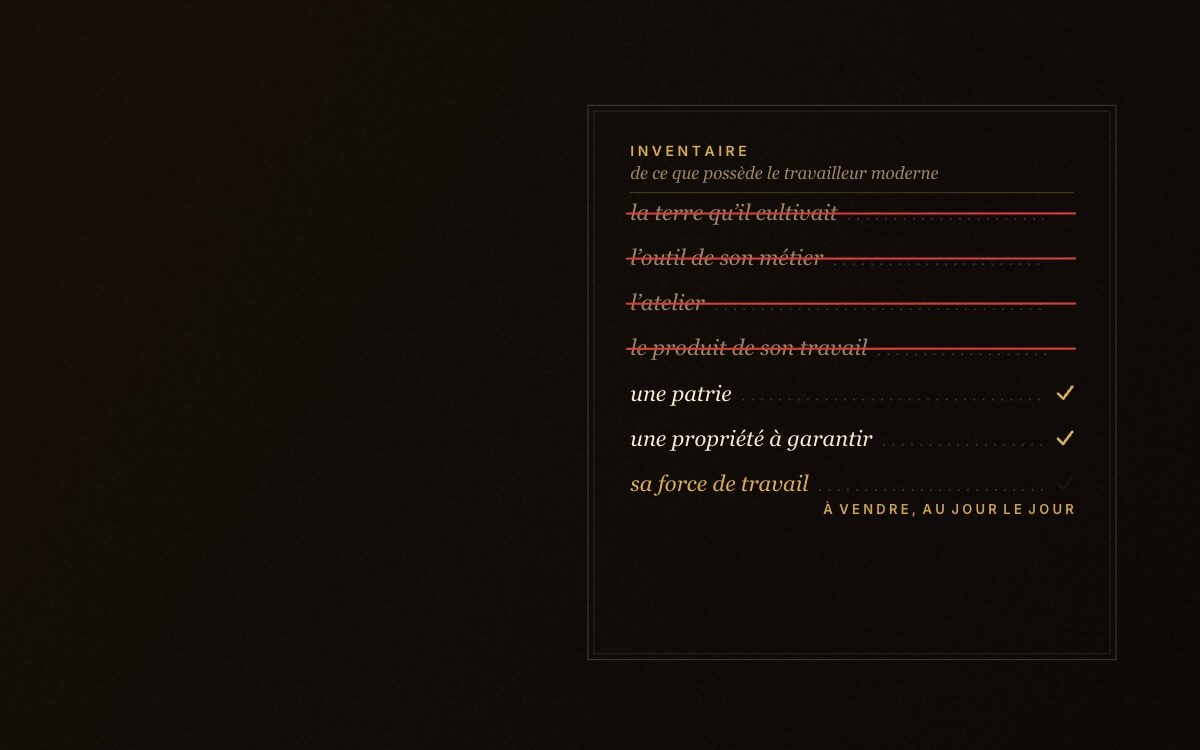
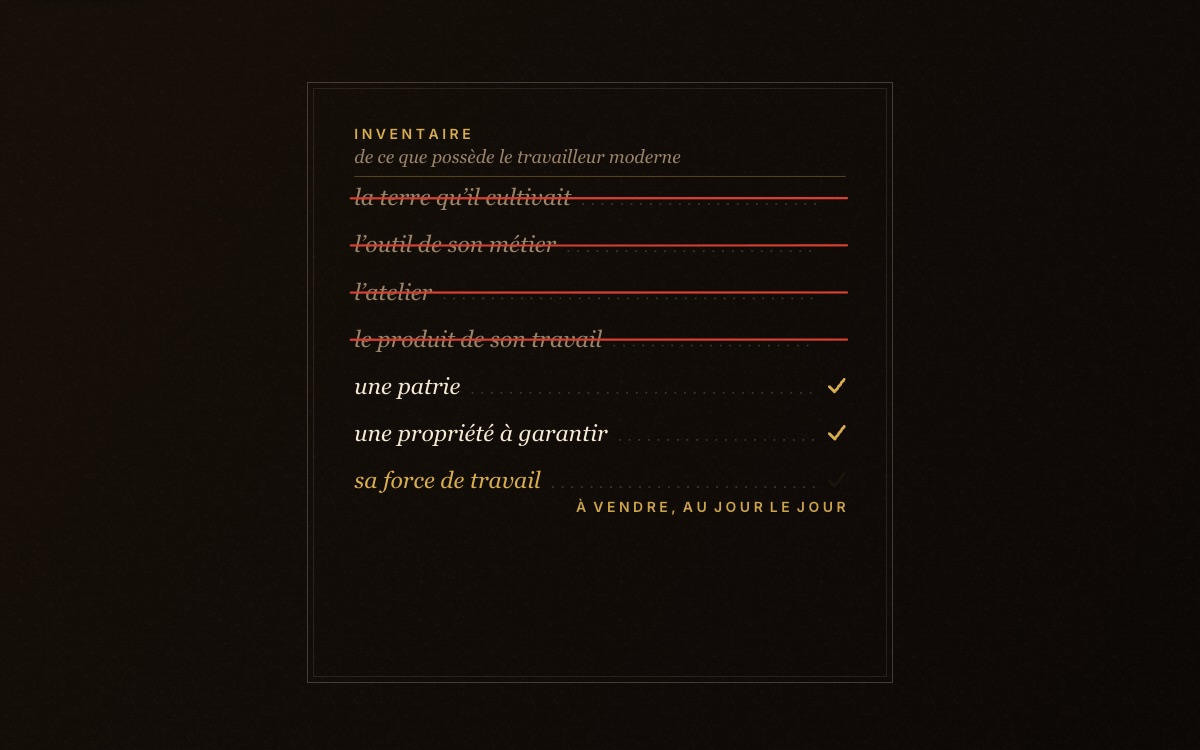
Glossaire : proletariat réécrite selon la charte, direction artistique « la grève et l'inventaire »

diff --git a/glossaire/mondes/proletariat/essai.html b/glossaire/mondes/proletariat/essai.html
@@ -1,48 +1,77 @@
-<!-- L'ESSAI — le corps de /glossaire/proletariat. data-s="1" partout. Toutes
-     les citations sont relevées dans le texte de Laura Lafargue que la
-     liseuse sert ; aucune ne reprend une phrase citée par les pages lutte des
-     classes et bourgeoisie. L'étymologie latine et la note d'Engels de 1888
-     ne sont pas dans le texte servi : paraphrasées et situées. -->
+<!-- L'ESSAI : le corps de /glossaire/proletariat.
+     Réécrit en octobre 2026 selon glossaire/mondes/CHARTE.md.
+     data-s="1" partout : le Manifeste tient en une seule page Wikisource.
+     Toutes les citations sont relevées dans le texte de Laura Lafargue que
+     la liseuse sert ; aucune ne reprend une phrase citée par les pages lutte
+     des classes et bourgeoisie (la voyoucratie et l'organisation « sans cesse
+     détruite » y sont citées : ici on les paraphrase). L'étymologie latine
+     et la note d'Engels de 1888 ne sont pas dans le texte servi :
+     paraphrasées et situées. -->
 
 <section class="nt-sec" data-etape="misere" id="difficulte">
-<h2>Ni les pauvres, ni les ouvriers en bleu</h2>
-<p>Le mot a une histoire plus ancienne que la classe qu'il désigne, et c'est elle qui rend la notion difficile. Dans la Rome antique, les <i>proletarii</i> étaient les citoyens de la dernière classe du cens, ceux qui ne possédaient rien d'autre que leur descendance&nbsp;; le mot a gardé de cette origine une connotation de misère, et l'on entend encore spontanément par prolétaire un homme pauvre. Or le <i>Manifeste</i> ne définit pas le prolétariat par le revenu, et tout le sens de la notion se perd si on l'y ramène. La définition qu'on cite vient d'une note d'Engels à l'édition anglaise de 1888&nbsp;: le prolétariat est la classe des ouvriers salariés modernes qui, ne possédant pas de moyens de production, sont réduits à vendre leur force de travail pour vivre.</p>
-<p>Toute la difficulté est dans cette négation. Un prolétaire bien payé reste un prolétaire, puisqu'il ne possède toujours que sa capacité de travailler&nbsp;; un mendiant n'en est pas un, puisqu'il ne la vend pas. Le texte de 1848 le dit à sa manière, par un inventaire de ce qui manque plutôt que par un tableau de ce qui est. Il énumère en une ligne&nbsp;: <q data-s="1" data-q="Le prolétaire est sans propriété">le prolétaire est sans propriété</q>, et il en tire aussitôt que <q data-s="1" data-q="ses relations de famille n’ont rien de commun avec celles de la famille bourgeoise">ses relations de famille n'ont rien de commun avec celles de la famille bourgeoise</q>. C'est de ce manque qu'il faut partir, parce que c'est lui, et non la souffrance, qui fonde la thèse politique du texte.</p>
-<p>La restriction vaut aussi dans l'autre sens, et elle est moins remarquée. Le prolétariat n'est pas davantage la classe ouvrière au sens étroit, celle des usines et des mines. La bourgeoisie, dit le texte, a dépouillé de leur auréole les professions réputées vénérables&nbsp;: <q data-s="1" data-q="Du médecin, du juriste, du prêtre, du poète, du savant, elle a fait des travailleurs salariés">du médecin, du juriste, du prêtre, du poète, du savant, elle a fait des travailleurs salariés</q>. La frontière ne passe pas entre le travail manuel et le travail intellectuel, mais entre ceux qui possèdent les moyens de produire et ceux qui doivent se louer à eux.</p>
+<h2>Le prolétaire est-il simplement un pauvre&nbsp;?</h2>
+<p class="nt-lead">Non. Le <i>Manifeste</i> le définit par ce qu'il ne possède pas, les moyens de produire. Le revenu n'entre pas dans la définition&nbsp;: un prolétaire bien payé reste un prolétaire.</p>
+<p>Le mot est plus ancien que la classe qu'il désigne, et cette ancienneté gêne la lecture. Dans la Rome antique, les <i>proletarii</i> formaient la dernière classe du cens&nbsp;: des citoyens qui ne possédaient guère que leur descendance. Le mot en a gardé une couleur de misère, et l'on entend encore spontanément par «&nbsp;prolétaire&nbsp;» un homme pauvre. Si l'on lit le <i>Manifeste</i> avec ce sens-là, on passe à côté de ce qu'il dit.</p>
+<p>La définition qu'on cite le plus souvent ne vient d'ailleurs pas du texte de 1848. Elle se trouve dans une note qu'Engels ajoute à l'édition anglaise de 1888&nbsp;: le prolétariat est la classe des ouvriers salariés modernes qui, ne possédant pas de moyens de production, sont réduits à vendre leur force de travail pour vivre. Les moyens de production, ce sont la terre, les outils, les machines, les locaux, les matières premières, bref tout ce qu'il faut avoir pour produire quelque chose. Le texte de 1848 dit la même chose en une ligne, plus sèche&nbsp;: <q data-s="1" data-q="Le prolétaire est sans propriété">le prolétaire est sans propriété</q>, et il en tire aussitôt que <q data-s="1" data-q="ses relations de famille n’ont rien de commun avec celles de la famille bourgeoise">ses relations de famille n’ont rien de commun avec celles de la famille bourgeoise</q>.</p>
+<div class="nt-ex">
+<p class="nt-ex-t">Un exemple</p>
+<p>Prenons deux hommes dans une ville de 1850. Le premier est contremaître dans une filature&nbsp;; il gagne trois fois le salaire d'un fileur, il est bien logé, il épargne un peu. Le second tient une petite échoppe de cordonnier, avec ses formes et son cuir&nbsp;; il gagne moins que le contremaître et vit mal.</p>
+<p>Au sens du <i>Manifeste</i>, c'est le contremaître qui est un prolétaire&nbsp;: rien de ce qui sert à produire ne lui appartient, et s'il perd sa place il n'a plus que ses bras à proposer. Le cordonnier est pauvre, mais il possède encore ses moyens de travail, et c'est sa propre marchandise qu'il vend. Le jour où la manufacture de chaussures le ruine et où il doit se louer à elle, il change de classe sans que son revenu ait forcément changé. Les chiffres sont des exemples&nbsp;; la distinction est celle du texte.</p>
+</div>
+<p>La définition vaut aussi dans l'autre sens, et l'on y pense moins. Le prolétariat ne se limite pas aux usines et aux mines. Le <i>Manifeste</i> remarque que la bourgeoisie a dépouillé de leur auréole les professions réputées vénérables&nbsp;: <q data-s="1" data-q="Du médecin, du juriste, du prêtre, du poète, du savant, elle a fait des travailleurs salariés">du médecin, du juriste, du prêtre, du poète, du savant, elle a fait des travailleurs salariés</q>. La ligne de partage passe entre ceux qui possèdent de quoi produire et ceux qui doivent se louer à eux, quel que soit le travail qu'ils font.</p>
 </section>
 
 <section class="nt-sec" data-etape="naissance" id="ou">
-<h2>Où le texte le pose&nbsp;: une classe produite</h2>
-<p>Le prolétariat n'entre pas dans le <i>Manifeste</i> comme un sujet déjà constitué, mais comme un produit, et l'ordre de l'exposé le montre. Il n'apparaît qu'après l'histoire de la bourgeoisie, parce qu'il en est la conséquence&nbsp;: la bourgeoisie, écrit le texte, n'a pas seulement forgé les armes qui la tueront, <q data-s="1" data-q="elle a produit aussi les hommes qui manieront ces armes">elle a produit aussi les hommes qui manieront ces armes</q>. Il se développe à la mesure du capital, et c'est pourquoi on ne peut le penser sans elle, comme on ne peut penser la <a href="/glossaire/bourgeoisie">bourgeoisie</a> sans lui.</p>
-<p>D'où viennent ces hommes&nbsp;? Non d'une naissance, mais d'une chute. Les petits industriels, les marchands, les petits rentiers, les artisans et les paysans propriétaires <q data-s="1" data-q="tombent dans le Prolétariat">tombent dans le Prolétariat</q>, parce que leurs petits capitaux ne suffisent pas à employer les procédés de la grande industrie et que leur habileté est dépréciée par les nouveaux modes de production. Le prolétariat est fait de ceux qui ont perdu ce qu'ils avaient, et c'est ce que <i>Le Capital</i> reprendra, sur le terrain de l'histoire, sous le nom d'<a href="/glossaire/accumulation-primitive">accumulation primitive</a>&nbsp;: une séparation du producteur d'avec ses moyens de production.</p>
+<h2>D'où viennent les prolétaires&nbsp;?</h2>
+<p class="nt-lead">D'une chute. Ils viennent des classes qui possédaient un peu, et que la grande industrie a ruinées. Le prolétariat est un produit du capital, et le <i>Manifeste</i> le présente comme tel.</p>
+<p>L'ordre de l'exposé le montre. Le prolétariat n'entre dans la première partie du texte qu'après l'histoire de la bourgeoisie, parce qu'il en est la conséquence. La bourgeoisie, écrit le texte, n'a pas seulement forgé les armes qui la tueront&nbsp;: <q data-s="1" data-q="elle a produit aussi les hommes qui manieront ces armes">elle a produit aussi les hommes qui manieront ces armes</q>. Le prolétariat grandit à mesure que grandit le capital. On ne peut pas le penser sans la <a href="/glossaire/bourgeoisie">bourgeoisie</a>, et la bourgeoisie ne se pense pas sans lui.</p>
+<p>Le texte nomme ceux qui tombent. Les petits industriels, les marchands, les petits rentiers, les artisans et les paysans propriétaires <q data-s="1" data-q="tombent dans le Prolétariat">tombent dans le Prolétariat</q>, pour deux raisons. Leurs petits capitaux ne suffisent pas à employer les procédés de la grande industrie, et ils perdent la concurrence contre les grands capitalistes. Leur habileté de métier, ensuite, ne vaut plus grand-chose devant les nouvelles machines. Le prolétariat se recrute ainsi dans toutes les classes, et il est fait de gens qui ont perdu ce qu'ils avaient.</p>
+<p>C'est pourquoi le texte peut opposer le prolétariat aux autres classes qui combattent la bourgeoisie. Les classes moyennes la combattent pour se maintenir, et elles périssent à mesure que la grande industrie avance. Le prolétariat, lui, grandit avec elle&nbsp;: <q data-s="1" data-q="le Prolétariat, au contraire, est son produit tout spécial">le Prolétariat, au contraire, est son produit tout spécial</q>, celui de la grande industrie. <i>Le Capital</i> reprendra cette histoire sur le terrain des faits sous le nom d'<a href="/glossaire/accumulation-primitive">accumulation primitive</a>&nbsp;: une longue séparation du producteur d'avec ses moyens de production.</p>
 </section>
 
 <section class="nt-sec" data-etape="sans" id="distinction">
-<h2>La distinction&nbsp;: ce qu'il n'a pas</h2>
-<p>La distinction qui fait le concept est entre posséder et ne pas posséder les moyens de production, et elle a une conséquence que le texte formule dans le vocabulaire de l'échange. Celui qui ne possède rien d'autre que ses bras doit les vendre, et ce qu'il vend se traite comme une chose&nbsp;:</p>
+<h2>Que vend celui qui ne possède rien&nbsp;?</h2>
+<p class="nt-lead">Il se vend lui-même, dit le texte de 1848, au jour le jour. <i>Le Capital</i> corrigera la formule&nbsp;: ce qu'il vend est sa force de travail, sa capacité de travailler pendant un temps donné.</p>
+<p>Celui qui n'a que ses bras doit les louer pour vivre, et ce qu'il loue se traite comme n'importe quel article du marché. Le <i>Manifeste</i> le dit sans ménagement&nbsp;:</p>
 <blockquote data-s="1" data-q="Les ouvriers, contraints de se vendre au jour le jour, sont une marchandise comme tout autre article du commerce"><p>Les ouvriers, contraints de se vendre au jour le jour, sont une marchandise comme tout autre article du commerce&nbsp;; ils subissent, par conséquent, toutes les vicissitudes de la concurrence, toutes les fluctuations du marché.</p></blockquote>
-<p>La grande industrie aggrave cette condition. Le machinisme et la division du travail enlèvent au travail son caractère individuel et tout attrait, et <q data-s="1" data-q="Le producteur devient un simple appendice de la machine">le producteur devient un simple appendice de la machine</q>&nbsp;: la formule sera reprise et développée dans <i>Le Capital</i>, à la page de l'<a href="/glossaire/appendice-de-la-machine">appendice de la machine</a>.</p>
-<p>Un point doit être relevé ici, parce qu'il marque la distance entre le texte de 1848 et l'œuvre de la maturité. Le <i>Manifeste</i> explique le niveau des salaires en écrivant que <q data-s="1" data-q="le prix du travail, comme celui de toute marchandise, est égal au coût de sa production">le prix du travail, comme celui de toute marchandise, est égal au coût de sa production</q>. Marx abandonnera cette formulation. Ce que l'ouvrier vend n'est pas son travail, qui n'existe pas encore au moment de la vente, mais sa <a href="/glossaire/force-de-travail">force de travail</a>&nbsp;; et c'est parce que le travail effectivement fourni peut valoir plus que cette force que la plus-value devient explicable. L'expression «&nbsp;prix du travail&nbsp;» deviendra dans <i>Le Capital</i> une forme irrationnelle, analysée comme telle à la page de la <a href="/glossaire/forme-salaire">forme-salaire</a>. Le texte de 1848 énonce le rapport&nbsp;; il n'en a pas encore le concept.</p>
+<p>La grande industrie aggrave cette condition. Les machines et la division du travail retirent au travail tout ce qu'il avait de personnel, et <q data-s="1" data-q="Le producteur devient un simple appendice de la machine">le producteur devient un simple appendice de la machine</q>. On ne lui demande plus qu'un geste simple et vite appris, si bien que n'importe qui peut le remplacer. <i>Le Capital</i> développera cette formule au chapitre du machinisme, que résume la page de l'<a href="/glossaire/appendice-de-la-machine">appendice de la machine</a>.</p>
+<p>Une phrase du même paragraphe marque la distance entre le texte de 1848 et l'œuvre de la maturité. Pour expliquer le niveau des salaires, le <i>Manifeste</i> écrit que <q data-s="1" data-q="le prix du travail, comme celui de toute marchandise, est égal au coût de sa production">le prix du travail, comme celui de toute marchandise, est égal au coût de sa production</q>. Marx abandonnera cette formulation. Au moment où l'ouvrier signe, son travail n'existe pas encore&nbsp;; ce qu'il vend, c'est sa <a href="/glossaire/force-de-travail">force de travail</a>, et c'est parce que le travail fourni ensuite peut produire plus que la valeur de cette force que la plus-value devient explicable. Dans <i>Le Capital</i>, «&nbsp;prix du travail&nbsp;» deviendra une expression irrationnelle, étudiée à la page de la <a href="/glossaire/forme-salaire">forme-salaire</a>. Le texte de 1848 voit le rapport&nbsp;; il n'en a pas encore le concept.</p>
 </section>
 
 <section class="nt-sec" data-etape="marchandise" id="mecanisme">
-<h2>Le mécanisme&nbsp;: une condition qui défait tout ordre</h2>
-<p>Qu'une classe ne possède rien a une conséquence qui dépasse de loin l'économie, et c'est là que le texte fait du manque une force. Tout ce qui, dans la société, se présente comme universel — la loi, la morale, la nation — suppose une propriété à protéger&nbsp;; pour celui qui n'en a pas, ces universels apparaissent pour ce qu'ils sont. <q data-s="1" data-q="Les lois, la morale, la religion sont pour lui autant de préjugés bourgeois, derrière lesquels se cachent autant d’intérêts bourgeois">Les lois, la morale, la religion sont pour lui autant de préjugés bourgeois, derrière lesquels se cachent autant d'intérêts bourgeois</q>.</p>
-<p>La nation elle-même n'échappe pas à ce dépouillement. Le travail industriel moderne, identique en France, en Angleterre, en Amérique et en Allemagne, <q data-s="1" data-q="a dépouillé le Prolétaire de tout caractère national">a dépouillé le Prolétaire de tout caractère national</q>, et la deuxième partie en tire une réplique qui a fait scandale&nbsp;: aux bourgeois qui accusent les communistes de vouloir abolir la patrie, le texte répond que <q data-s="1" data-q="Les ouvriers n’ont pas de patrie">les ouvriers n'ont pas de patrie</q>, et qu'on ne peut leur ravir ce qu'ils n'ont pas. La phrase n'est pas un programme, c'est un constat&nbsp;; et le texte ajoute aussitôt que le prolétariat de chaque pays doit d'abord conquérir le pouvoir politique dans sa nation, ce qui le rend encore national, <q data-s="1" data-q="quoique nullement dans le sens bourgeois">quoique nullement dans le sens bourgeois</q>.</p>
-<p>D'où la différence entre le prolétariat et toutes les classes opprimées qui l'ont précédé, qui est l'argument le plus fort du texte. Les classes montantes du passé avaient quelque chose à défendre, et elles l'ont imposé à la société une fois victorieuses. <q data-s="1" data-q="Les Prolétaires n’ont rien à eux à assurer">Les Prolétaires n'ont rien à eux à assurer</q>&nbsp;; ils ont au contraire à détruire toute garantie privée, toute sécurité privée existante. Une classe qui n'a rien à conserver ne peut pas fonder un nouvel ordre de propriété de classe&nbsp;: c'est ce qui fait de son émancipation autre chose qu'une relève, et ce que développe la page de la <a href="/glossaire/lutte-des-classes">lutte des classes</a>.</p>
+<h2>Pourquoi une classe qui n'a rien serait-elle une force&nbsp;?</h2>
+<p class="nt-lead">Parce que rien ne la retient à l'ordre existant. La loi, la morale et la nation supposent une propriété à protéger&nbsp;; pour qui n'en a pas, elles apparaissent comme les garanties des autres.</p>
+<p>Le <i>Manifeste</i> fait ici du manque un argument. Tout ce qui, dans une société, se présente comme valable pour tous protège en même temps la propriété de quelques-uns. Celui qui ne possède rien le voit plus facilement que les autres&nbsp;: <q data-s="1" data-q="Les lois, la morale, la religion sont pour lui autant de préjugés bourgeois, derrière lesquels se cachent autant d’intérêts bourgeois">les lois, la morale, la religion sont pour lui autant de préjugés bourgeois, derrière lesquels se cachent autant d’intérêts bourgeois</q>. Le texte ne dit pas que le prolétaire est plus lucide par nature. Il dit que sa place lui retire les raisons de croire.</p>
+<p>La nation subit le même sort. Le travail industriel est le même en France, en Angleterre, en Amérique et en Allemagne, et il <q data-s="1" data-q="a dépouillé le Prolétaire de tout caractère national">a dépouillé le Prolétaire de tout caractère national</q>. La deuxième partie en tire une réplique qui a fait scandale. Aux bourgeois qui accusent les communistes de vouloir abolir la patrie, elle répond que <q data-s="1" data-q="Les ouvriers n’ont pas de patrie">les ouvriers n’ont pas de patrie</q>, et qu'on ne peut leur ravir ce qu'ils n'ont pas. La phrase constate&nbsp;; elle ne propose rien. Le texte ajoute d'ailleurs que le prolétariat de chaque pays doit d'abord conquérir le pouvoir dans sa nation, ce qui le rend encore national, <q data-s="1" data-q="quoique nullement dans le sens bourgeois">quoique nullement dans le sens bourgeois</q>.</p>
+<p>De là vient la différence entre le prolétariat et les classes opprimées qui l'ont précédé. Les classes montantes du passé avaient quelque chose à défendre&nbsp;: une fois victorieuses, elles ont imposé à toute la société leur propre manière de posséder. Le prolétariat ne le peut pas. <q data-s="1" data-q="Les Prolétaires n’ont rien à eux à assurer">Les Prolétaires n’ont rien à eux à assurer</q>&nbsp;; ils ont au contraire à détruire toute garantie privée existante. Une classe qui n'a rien à conserver ne peut pas fonder un nouvel ordre de propriété de classe. Sa victoire mettrait fin aux classes au lieu d'en installer une nouvelle au sommet, et c'est ce que développe la page de la <a href="/glossaire/lutte-des-classes">lutte des classes</a>.</p>
 </section>
 
 <section class="nt-sec" data-etape="fossoyeurs" id="ouvre">
-<h2>Ce que le concept ouvre&nbsp;: les fossoyeurs</h2>
-<p>Le texte ne décrit pas seulement une condition, il en déduit une issue, et il le fait par un raisonnement qui mérite d'être suivi pas à pas. Toutes les sociétés antérieures reposaient sur l'oppression d'une classe par une autre&nbsp;; mais pour opprimer une classe, il faut au moins lui garantir de quoi vivre dans sa servitude. Le serf pouvait devenir membre de la commune, le bourgeois embryonnaire atteindre la position de bourgeois. L'ouvrier moderne, au contraire, <q data-s="1" data-q="loin de s’élever avec le progrès de l’industrie, descend toujours plus bas">loin de s'élever avec le progrès de l'industrie, descend toujours plus bas</q>, et la bourgeoisie devient incapable de rester la classe dirigeante, puisqu'elle ne peut plus assurer à ses esclaves l'existence dans leur esclavage.</p>
-<p>La conclusion de la première partie tient en une phrase, qui retourne le mouvement tout entier&nbsp;: la grande industrie remplace l'isolement des ouvriers par leur union au moyen de l'association, et <q data-s="1" data-q="La Bourgeoisie produit avant tout ses propres fossoyeurs">la Bourgeoisie produit avant tout ses propres fossoyeurs</q>. On aurait tort d'y voir une simple image. Le texte a montré que la bourgeoisie ne peut exister sans capital, le capital sans salariat, et le salariat sans la concurrence des ouvriers entre eux&nbsp;; or c'est cette concurrence que la concentration industrielle défait. Ce que la bourgeoisie produit pour vivre, elle le produit contre elle.</p>
-<p>Le texte se referme sur le même manque qui a fondé la notion, devenu cette fois un argument&nbsp;:</p>
+<h2>Pourquoi la bourgeoisie produit-elle ses propres fossoyeurs&nbsp;?</h2>
+<p class="nt-lead">Parce que le capital a besoin d'ouvriers isolés qui se font concurrence, et que la grande industrie les rassemble. En réunissant les prolétaires pour produire, la bourgeoisie leur donne le moyen de s'unir contre elle.</p>
+<p>Le raisonnement part d'une remarque sur l'oppression elle-même. Toutes les sociétés antérieures reposaient sur l'oppression d'une classe par une autre&nbsp;; or, pour opprimer une classe, il faut au moins lui garantir de quoi vivre dans sa servitude. Le serf pouvait devenir membre d'une commune, le petit bourgeois du Moyen Âge pouvait s'élever jusqu'à la bourgeoisie. L'ouvrier moderne, selon le texte, <q data-s="1" data-q="loin de s’élever avec le progrès de l’industrie, descend toujours plus bas">loin de s’élever avec le progrès de l’industrie, descend toujours plus bas</q>. La bourgeoisie devient alors incapable de régner, puisqu'elle ne peut plus assurer à ceux qu'elle exploite leur existence, même dans les conditions de leur exploitation.</p>
+<p>Le second temps porte sur la concurrence. Le texte rappelle les conditions de la bourgeoisie&nbsp;: elle ne peut exister sans capital, le capital sans salariat, et le salariat repose sur la concurrence que les ouvriers se font entre eux. Or la grande industrie entasse les ouvriers dans les mêmes fabriques, égalise leurs conditions et leurs salaires, les relie par les chemins de fer. Elle <q data-s="1" data-q="remplace l’isolement des ouvriers par leur union révolutionnaire au moyen de l’association">remplace l’isolement des ouvriers par leur union révolutionnaire au moyen de l’association</q>. Ce que la bourgeoisie organise pour produire, elle l'organise du même coup contre elle&nbsp;:</p>
+<blockquote data-s="1" data-q="La Bourgeoisie produit avant tout ses propres fossoyeurs"><p>La Bourgeoisie produit avant tout ses propres fossoyeurs.</p></blockquote>
+<p>L'image a la sécheresse d'un constat. Le texte ne promet pas une victoire facile&nbsp;: il sait que l'organisation des ouvriers est sans cesse défaite par leur concurrence, et qu'elle renaît. La grève peinte par Robert Koehler en 1886 montre ce moment où des hommes qui n'ont que leur travail le retirent ensemble&nbsp;; c'est le seul pouvoir que leur condition leur laisse, et ils ne l'exercent qu'unis. Le <i>Manifeste</i> se referme sur le même manque qui a servi à définir la classe, devenu cette fois un argument&nbsp;:</p>
 <blockquote data-s="1" data-q="Les prolétaires n’ont rien à y perdre, hors leurs chaînes"><p>Les prolétaires n’ont rien à y perdre, hors leurs chaînes. Ils ont un monde à gagner.</p></blockquote>
 </section>
 
 <section class="nt-sec" data-etape="lectures" id="lectures">
-<h2>Les lectures et les contresens</h2>
-<p>Le premier contresens consiste à juger la notion par la sociologie d'un moment. On a annoncé à plusieurs reprises la disparition du prolétariat, à mesure que reculait la figure de l'ouvrier d'usine et que croissaient les employés, les techniciens, les services. L'argument confond la figure et le rapport&nbsp;: si le prolétariat se définit par la vente de la force de travail faute de moyens de production, la diminution des ouvriers d'industrie ne dit rien de son extension, et le texte lui-même, on l'a vu, comptait déjà le savant et le juriste parmi les travailleurs salariés.</p>
-<p>Le deuxième porte sur la thèse de l'appauvrissement. Le <i>Manifeste</i> affirme que l'ouvrier <q data-s="1" data-q="tombe dans le paupérisme">tombe dans le paupérisme</q>, et l'on a opposé à cette prédiction la hausse des salaires réels dans les pays industrialisés. La critique porte contre la lettre de 1848&nbsp;; elle porte beaucoup moins contre <i>Le Capital</i>, où la loi de l'accumulation ne dit pas que chaque ouvrier s'appauvrit sans cesse, mais que l'accumulation produit une population surnuméraire dont la pression règle les salaires. Nous tenons que c'est à cette seconde formulation qu'il faut juger la notion, et c'est elle que développe la page de l'<a href="/glossaire/armee-de-reserve">armée de réserve</a>.</p>
-<p>Le troisième contresens fait du prolétariat une élection&nbsp;: une classe investie d'une mission par l'histoire, et vertueuse par sa souffrance. Le texte ne dit rien de tel. Il n'attribue au prolétariat aucune qualité morale, et il compte même, à côté de lui, une «&nbsp;voyoucratie&nbsp;» que ses conditions de vie disposent à se vendre à la réaction. Ce qui le distingue n'est pas d'être meilleur, mais d'être placé de telle sorte qu'il ne peut défendre ses intérêts sans s'attaquer à la propriété de classe elle-même&nbsp;; et le texte en appelle moins à une mission qu'à une organisation, dont il sait qu'elle est sans cesse défaite par la concurrence.</p>
+<h2>Comment lire cette notion, et quels contresens éviter&nbsp;?</h2>
+<p class="nt-lead">Le prolétariat se définit par un rapport, la vente de la force de travail faute de moyens de production. Les trois contresens les plus courants le confondent avec une figure, avec une prédiction ou avec une vertu.</p>
+<p>La plupart des débats sur le prolétariat portent sur sa réalité présente. On a souvent annoncé sa disparition, à mesure que reculait l'ouvrier d'usine et que se multipliaient les employés, les techniciens et les métiers de service. La question se tranche en revenant à la définition. Un employé de bureau ne possède pas plus son bureau que le fileur ne possède son métier à filer. Le <i>Manifeste</i> comptait déjà le juriste et le savant parmi les salariés.</p>
+<div data-planche="bureau"></div>
+<p>La prédiction de l'appauvrissement pose une autre difficulté. Le texte affirme que l'ouvrier <q data-s="1" data-q="tombe dans le paupérisme">tombe dans le paupérisme</q>, et l'on a opposé à cette phrase la hausse des salaires réels dans les pays industrialisés au siècle suivant. L'objection touche la lettre de 1848. Elle touche beaucoup moins <i>Le Capital</i>, où la loi de l'accumulation ne dit pas que chaque ouvrier s'appauvrit sans fin&nbsp;: elle dit que l'accumulation produit une population en surnombre, dont la pression pèse sur les salaires. Nous tenons que c'est à cette seconde formulation qu'il faut juger la notion, celle que présente la page de l'<a href="/glossaire/armee-de-reserve">armée de réserve</a>.</p>
+<div class="nt-cs">
+<p><span class="nt-cs-k">On lit souvent</span> Le prolétariat, ce seraient les pauvres&nbsp;; on en sortirait en gagnant mieux sa vie.</p>
+<p><span class="nt-cs-k">Ce que dit le texte</span> Le <i>Manifeste</i> le définit par l'absence de propriété des moyens de production. Un salarié bien payé reste un prolétaire, et un petit propriétaire pauvre n'en est pas un tant qu'il travaille avec ce qui lui appartient.</p>
+</div>
+<div class="nt-cs">
+<p><span class="nt-cs-k">On lit souvent</span> Le prolétariat aurait disparu avec la grande usine et le travail ouvrier.</p>
+<p><span class="nt-cs-k">Ce que dit le texte</span> La notion désigne un rapport et non un métier. Le texte de 1848 range déjà le médecin, le juriste et le savant parmi les travailleurs salariés&nbsp;; la baisse du nombre des ouvriers d'industrie ne dit rien, à elle seule, du nombre de ceux qui vivent de la vente de leur force de travail.</p>
+</div>
+<div class="nt-cs">
+<p><span class="nt-cs-k">On lit souvent</span> Marx ferait du prolétariat une classe élue, vertueuse par sa souffrance et chargée d'une mission par l'histoire.</p>
+<p><span class="nt-cs-k">Ce que dit le texte</span> Le <i>Manifeste</i> ne lui prête aucune qualité morale&nbsp;; il décrit même, à côté de lui, une couche misérable des grandes villes que sa condition dispose à se vendre à la réaction. Ce qui distingue le prolétariat, c'est sa place&nbsp;: il ne peut défendre ses intérêts sans s'attaquer à la propriété de classe elle-même.</p>
+</div>
 </section>

diff --git a/glossaire/mondes/proletariat/monde.js b/glossaire/mondes/proletariat/monde.js
@@ -56,10 +56,12 @@ window.LM_MONDE = function (canvas) {
     for (var gx = 0; gx < cw; gx += 200) for (var gy = 0; gy < ch; gy += 200) ctx.drawImage(grain, gx, gy);
     ctx.restore();
 
-    /* LA FEUILLE VIT DANS LA MOITIÉ DROITE au large (la colonne de texte
-       couvre les 43 premiers pour cent) ; en bande étroite, elle est centrée */
-    var large = cw >= 1100;
-    var X0 = large ? cw * 0.49 : cw * 0.08, X1 = large ? cw * 0.93 : cw * 0.92;
+    /* LA FEUILLE EST CENTRÉE. Elle vivait dans la moitié droite au large,
+       quand la planche était un fond plein écran sous la colonne de texte ;
+       depuis octobre 2026 elle est une figure en bas de page, sans rien à
+       sa gauche à dégager. Sa largeur suit la hauteur disponible. */
+    var LW = Math.min(cw * 0.86, Math.max(ch * 0.78, cw * 0.46));
+    var X0 = (cw - LW) / 2, X1 = X0 + LW;
     var H = Math.min(ch * 0.8, (X1 - X0) * 1.05), Y0 = (ch - H) / 2 + ch * 0.01;
     /* la taille se règle sur la HAUTEUR disponible : la feuille compte vingt-deux
        lignes de texte en tout, et dans le bandeau mobile (225 px) une taille
